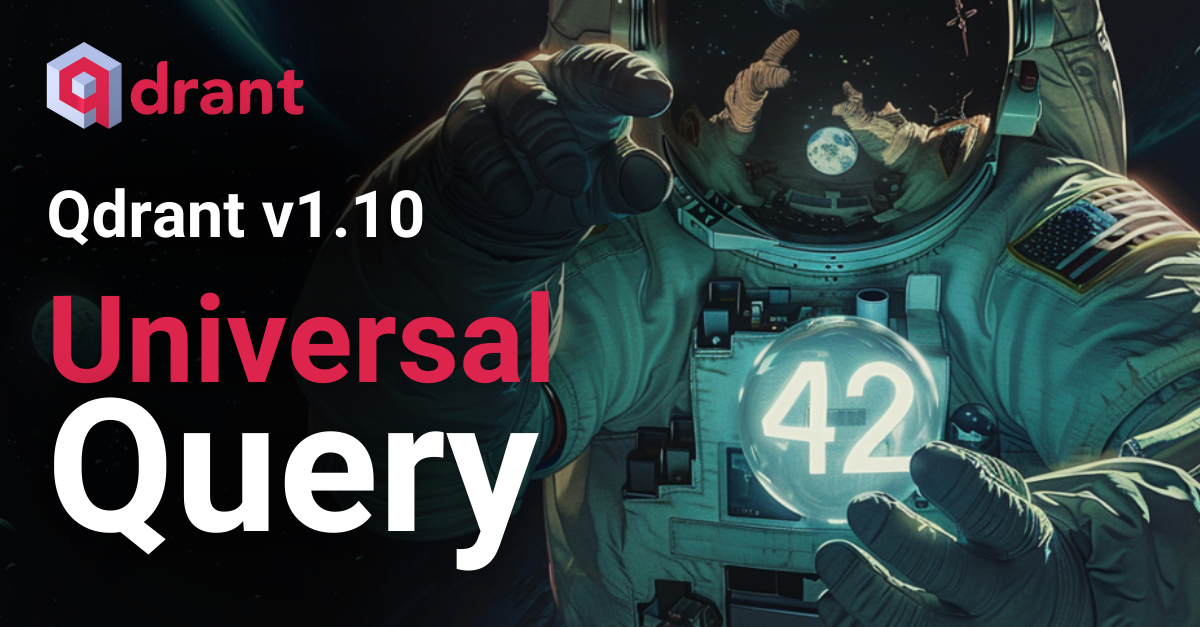
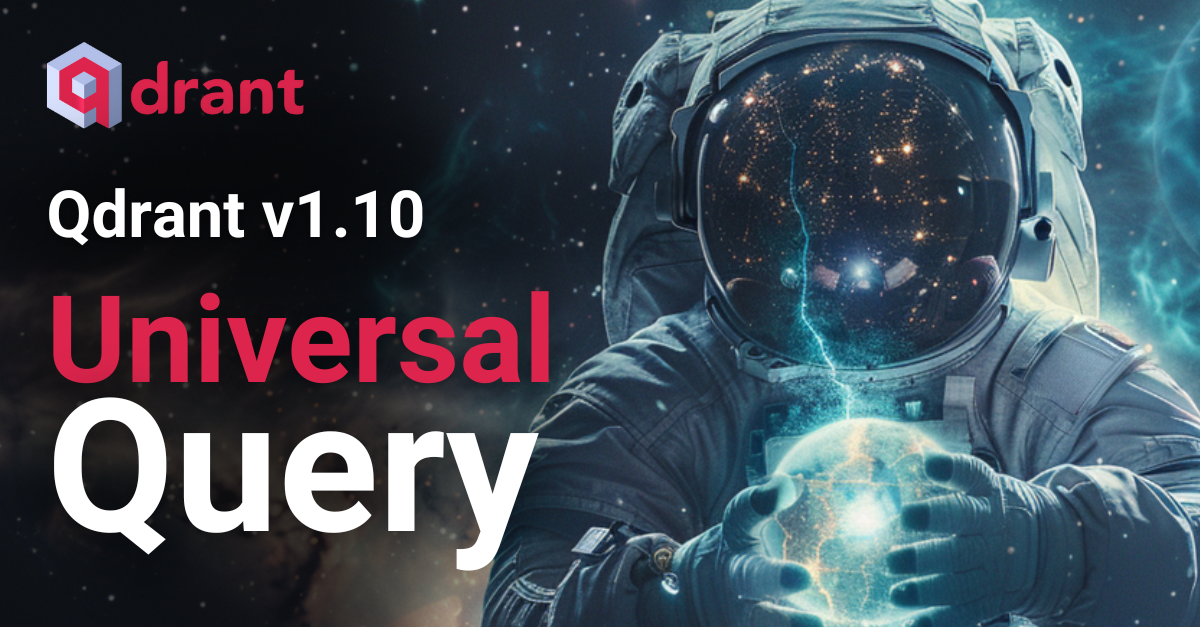
fix image and descriptions

diff --git a/qdrant-landing/content/blog/qdrant-1.10.x.md b/qdrant-landing/content/blog/qdrant-1.10.x.md
@@ -18,9 +18,8 @@ tags:
 
 [Qdrant 1.10.0 is out!](https://github.com/qdrant/qdrant/releases/tag/v1.10.0) This version introduces at some major changes, so let's dive right in:
 
-**Universal Query API:** All search APIs are now consolidated into a single Query API endpoint.</br>
-**Hybrid Search:** Hybrid Search is offered out of the box, and you can use it via Query API.</br>
-**BM42 Algorithm:** Alternative method of scoring is best suited for Hybrid Search on short docs.</br>
+**Universal Query API:** All search APIs, including Hybrid Search, are now in one Query endpoint.</br>
+**BM42 Algorithm:** Alternative method of scoring, that's best for Hybrid Search on short docs.</br>
 **Multivector Support:** Native support for late interaction ColBERT is accessible via Query API.
 
 ## One Endpoint for All Queries
@@ -171,13 +170,6 @@ client.query_points(
 ### Where BM42 shines
 You can expect BM42 to excel in scalable RAG-based scenarios where short texts are more common. Document inference speed is much higher with BM42, which is critical for large-scale applications such as search engines, recommendation systems, and real-time decision-making systems.
 
-Our benchmark was done on the [Quora dataset](https://huggingface.co/datasets/BeIR/quora), to demonstrate Question-Answering tasks on a corpus of short texts. 
-
-|Results | BM25 | BM42     |
-|---------------|------|----------|
-|Precision @ 10 | 0.45 | **0.49** |
-
-This preliminary test highlights increased precision across the entire QA task. Please note that best results are achieved with combination of sparse and dense embeddings in a hybrid approach.
 
 ## ColBERT Multivector Support 
 We are adding native support for multivector search, compatible with the late-interaction [ColBERT](https://github.com/stanford-futuredata/ColBERT) model. 
@@ -220,10 +212,10 @@ For instance, in e-commerce, you can use multivector to store multiple images of
 
 ## Sparse Vectors Compression
 
-In version 1.9, we introduced the `uint8` [vector datatype](/documentation/concepts/collections/#vector-datatypes), as support for pre-quantized embeddings. 
-Now, we are introducing a new **datatype** for sparse vectors and a different way of **storing** these sparse vectors. 
+In version 1.9, we introduced the `uint8` [vector datatype](/documentation/concepts/collections/#vector-datatypes) for sparse vectors, in order to support pre-quantized embeddings from companies like JinaAI and Cohere. 
+This time, we are introducing a new datatype **for both sparse and dense vectors**, as well as a different way of **storing** these  vectors. 
 
-**Datatype:** Sparse vectors were represented in larger `float32` values, but now they can be turned to the `float16`. `float16` vectors have a lower precision compared to `float32`, which means that there is less numerical accuracy in the vector values - but this is negligible for practical use cases. 
+**Datatype:** Sparse and dense vectors were previously represented in larger `float32` values, but now they can be turned to the `float16`. `float16` vectors have a lower precision compared to `float32`, which means that there is less numerical accuracy in the vector values - but this is negligible for practical use cases. 
 
 These vectors will use at least half the memory of regular vectors, which can significantly reduce the footprint of large vector datasets. Operations can be faster due to reduced memory bandwidth requirements and better cache utilization. This can lead to faster vector search operations, especially in memory-bound scenarios.
 
@@ -252,6 +244,28 @@ Qdrant’s reshaped Rust client is now more accessible and easier to use. We hav
 
 ## S3 Snapshot Storage
 Qdrant **Collections**, **Shards** and **Storage** can be backed up with [Snapshots](/documentation/concepts/snapshots/) and saved in case of data loss or other data transfer purposes. These snapshots can be quite large and the resources required to maintain them can result in higher costs. [AWS S3](https://aws.amazon.com/s3/) is a great low-cost alternative that can hold snapshots without incurring high costs. It is globally reliable, scalable and resistant to data loss. 
+
+You can configure S3 bucket settings in the [config.yaml](https://github.com/qdrant/qdrant/blob/master/config/config.yaml), specifically under`snapshots_storage`.
+
+```yaml
+storage:
+  # Where to store all the data
+  storage_path: ./storage
+
+  # Where to store snapshots
+  snapshots_path: ./snapshots
+
+  snapshots_config:
+    # "local" or "s3" - where to store snapshots
+    snapshots_storage: local
+    # s3_config:
+    #   bucket: ""
+    #   region: ""
+    #   access_key: ""
+    #   secret_key: ""
+```
+
+*Read more about [configuring Qdrant defaults](https://qdrant.tech/documentation/guides/configuration/).*
 
 This integration allows for a more convenient distribution of snapshots. AWS users can now benefit from other platform services, such as automated workflows and disaster recovery options. S3's encryption and access control ensure secure storage and regulatory compliance. Additionally, S3 supports performance optimization through various storage classes and efficient data transfer methods, enabling quick and effective snapshot retrieval and management.
 
